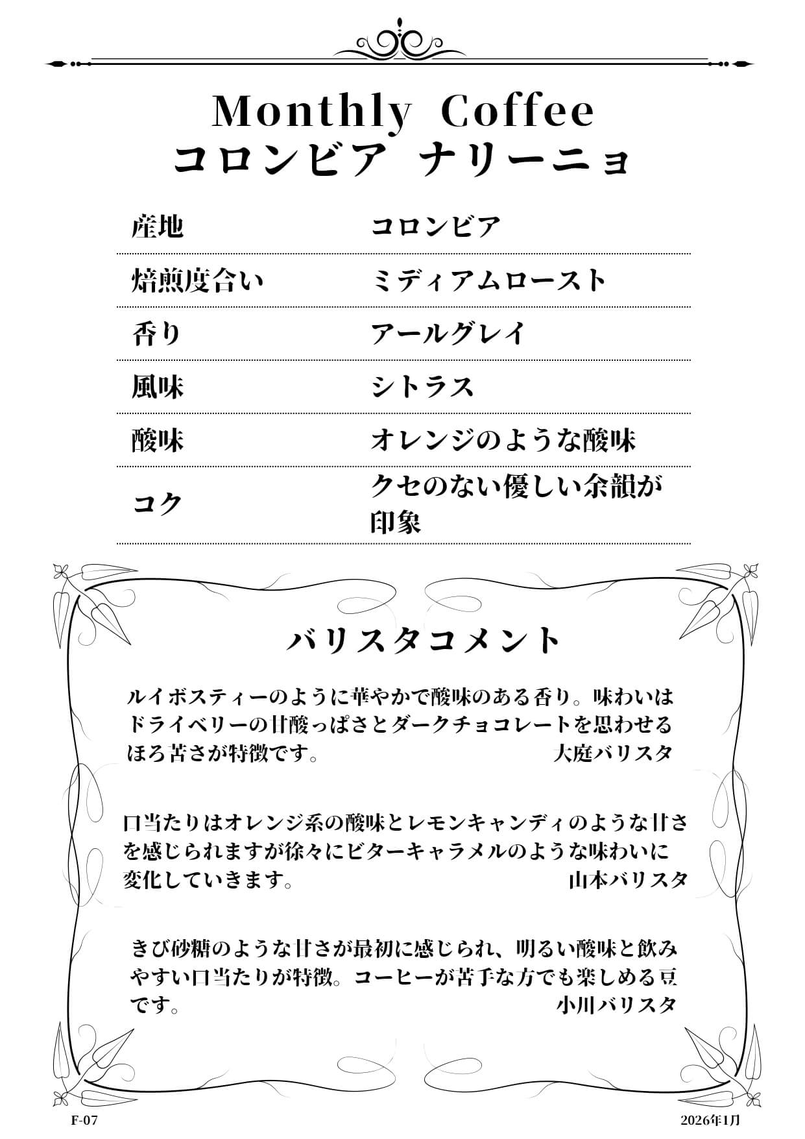
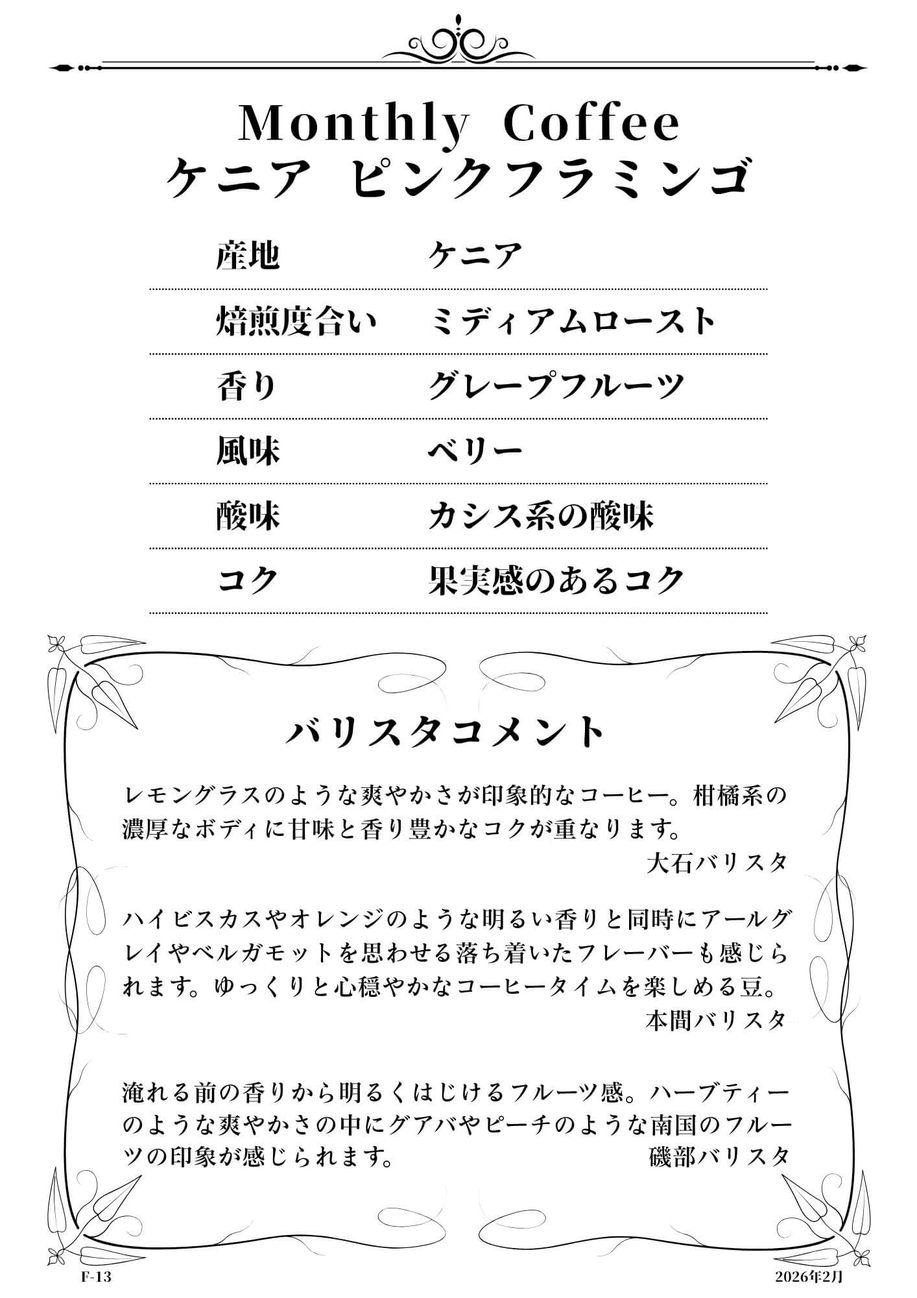
Update main site: FAQ improvements and February content
- Optimize alt attributes for accessibility (reduced to ~120 chars)
- Swap FAQ Q17/Q18 order (international visitors → takeout)
- Improve Q17: bilingual menu info and luggage-friendly
- Remove bold formatting from FAQ answers (Q5, Q7, Q11)
- Update February images (magazine, monthly coffee, event flyers)
- Standardize terminology: "店内ペット同伴", "店内禁煙"
- Update last modified date to 2026-01-27
- Update JSON-LD structured data

diff --git a/public/index.html b/public/index.html
@@ -15,12 +15,12 @@
 
   <!-- SEO/AEO メタ情報 -->
   <title>Green Beans Coffee (グリーンビーンズコーヒー) | 北参道・千駄ヶ谷のペットフレンドリー自家焙煎コーヒー専門店</title>
-  <meta name="description" content="北参道駅徒歩3分、千駄ヶ谷のダガヤサンドウエリアにある自家焙煎コーヒー専門店。店名看板のない隠れ家的な空間で、ペット同伴OK、グルテンフリーメニュー充実。30種類以上のコーヒー豆から選べるハンドドリップと、焙煎体験イベントも人気。アンバサダーKikumiが魅力を紹介します。">
-  <meta name="keywords" content="グリーンビーンズコーヒー, Green Beans Coffee, 北参道 カフェ, 千駄ヶ谷 カフェ, ペットフレンドリー カフェ, ペット同伴 カフェ 東京, グルテンフリー カフェ, 自家焙煎 コーヒー, ダガヤサンドウ カフェ, 焙煎体験, コーヒー専門店">
+  <meta name="description" content="北参道駅徒歩3分、千駄ヶ谷のダガヤサンドウエリアにある自家焙煎コーヒー専門店。店名看板のない隠れ家的な空間で、店内ペット同伴OK、グルテンフリーメニュー充実。30種類以上のコーヒー豆から選べるハンドドリップと、焙煎体験イベントも人気。アンバサダーKikumiが魅力を紹介します。">
+  <meta name="keywords" content="グリーンビーンズコーヒー, Green Beans Coffee, 北参道 カフェ, 千駄ヶ谷 カフェ, ペットフレンドリー カフェ, 店内ペット同伴 カフェ 東京, グルテンフリー カフェ, 自家焙煎 コーヒー, ダガヤサンドウ カフェ, 焙煎体験, コーヒー専門店">
 
   <!-- OGP -->
   <meta property="og:title" content="Green Beans Coffee (グリーンビーンズコーヒー) | 北参道・千駄ヶ谷のペットフレンドリー自家焙煎コーヒー専門店">
-  <meta property="og:description" content="北参道駅徒歩3分、千駄ヶ谷のダガヤサンドウエリアにある自家焙煎コーヒー専門店。店名看板のない隠れ家的な空間で、ペット同伴OK、グルテンフリーメニュー充実。30種類以上のコーヒー豆から選べるハンドドリップと、焙煎体験イベントも人気。アンバサダーKikumiが魅力を紹介します。">
+  <meta property="og:description" content="北参道駅徒歩3分、千駄ヶ谷のダガヤサンドウエリアにある自家焙煎コーヒー専門店。店名看板のない隠れ家的な空間で、店内ペット同伴OK、グルテンフリーメニュー充実。30種類以上のコーヒー豆から選べるハンドドリップと、焙煎体験イベントも人気。アンバサダーKikumiが魅力を紹介します。">
   <meta property="og:type" content="website">
   <meta property="og:url" content="https://greenbeanscoffeeambassador.com">
   <meta property="og:image" content="https://greenbeanscoffeeambassador.com/assets/images/hero_bg-1.jpg">
@@ -122,8 +122,8 @@
   <section id="hero" class="relative h-screen flex items-center justify-center overflow-hidden">
     <!-- Background Images with Auto-switching (2 layers for smooth transition) -->
     <div class="absolute inset-0 z-0">
-      <img id="hero-bg-1" src="/assets/images/hero_bg-1.jpg" alt="北参道・千駄ヶ谷にあるコーヒー専門店Green Beans Coffee。世界各国から厳選した約30種類のコーヒー豆を自家焙煎し、気分や好みに合わせた一杯を提供。落ち着いた空間で過ごせるサードプレイスとして親しまれています。" class="absolute inset-0 w-full h-full object-cover transition-opacity duration-[4000ms] ease-in-out">
-      <img id="hero-bg-2" src="/assets/images/hero_bg-2.jpg" alt="北参道・千駄ヶ谷のコーヒー専門店Green Beans Coffee。世界各国から厳選した30種類の豆を自家焙煎し、静かで温かみのある店内で提供。落ち着いた雰囲気の中、心を整えるサードプレイスとして親しまれています。" class="absolute inset-0 w-full h-full object-cover opacity-0 transition-opacity duration-[4000ms] ease-in-out">
+      <img id="hero-bg-1" src="/assets/images/hero_bg-1.jpg" alt="北参道・千駄ヶ谷のコーヒー専門店Green Beans Coffee。世界各国から厳選した約30種類のコーヒー豆を自家焙煎し、好みに合わせた一杯を提供。落ち着いたサードプレイスとして親しまれています。" class="absolute inset-0 w-full h-full object-cover transition-opacity duration-[4000ms] ease-in-out">
+      <img id="hero-bg-2" src="/assets/images/hero_bg-2.jpg" alt="北参道・千駄ヶ谷のコーヒー専門店Green Beans Coffee。世界各国から厳選した30種類の豆を自家焙煎し、静かで温かみのある店内で提供。心を整えるサードプレイスとして親しまれています。" class="absolute inset-0 w-full h-full object-cover opacity-0 transition-opacity duration-[4000ms] ease-in-out">
       <div class="absolute inset-0 bg-black/40"></div>
     </div>
 
@@ -170,8 +170,8 @@
       <div class="grid md:grid-cols-2 gap-16 items-stretch">
         <!-- Left: Images -->
         <div data-aos="fade-right" class="flex flex-col gap-6">
-          <img src="/assets/images/about-shop-front.jpg" alt="北参道・千駄ヶ谷の「ダガヤサンドウ」エリアに佇む、看板のない隠れ家カフェGreen Beans Coffee。静かな路地に溶け込む外観が特徴で、知る人ぞ知るコーヒー専門店として落ち着いた時間を提供しています。" class="w-full flex-1 rounded-lg shadow-lg object-cover" loading="lazy" decoding="async">
-          <img src="/assets/images/about-interior.jpg" alt="北参道・千駄ヶ谷のコーヒー専門店Green Beans Coffee。グルテンフリーランチを提供し、店内はペット同伴可能。落ち着いた空間で、愛犬と一緒に安心して食事と自家焙煎コーヒーを楽しめます。" class="w-full flex-1 rounded-lg shadow-lg object-cover" loading="lazy" decoding="async">
+          <img src="/assets/images/about-shop-front.jpg" alt="北参道・千駄ヶ谷のダガヤサンドウエリアに佇む、看板のない隠れ家カフェGreen Beans Coffee。静かな路地に溶け込む外観が特徴で、知る人ぞ知るコーヒー専門店として親しまれています。" class="w-full flex-1 rounded-lg shadow-lg object-cover" loading="lazy" decoding="async">
+          <img src="/assets/images/about-interior.jpg" alt="北参道・千駄ヶ谷のコーヒー専門店Green Beans Coffee。グルテンフリーランチを提供し、店内ペット同伴可能。落ち着いた空間で、愛犬と一緒に安心して食事と自家焙煎コーヒーを楽しめます。" class="w-full flex-1 rounded-lg shadow-lg object-cover" loading="lazy" decoding="async">
         </div>
 
         <!-- Right: Basic Info Table -->
@@ -212,7 +212,7 @@
                 </tr>
                 <tr class="border-b border-accent/30">
                   <th class="text-left py-3 text-primary font-semibold">禁煙・喫煙</th>
-                  <td class="py-3">全面禁煙（喫煙専用席なし）</td>
+                  <td class="py-3">店内禁煙（喫煙専用席なし）</td>
                 </tr>
                 <tr class="border-b border-accent/30">
                   <th class="text-left py-3 text-primary font-semibold">予約</th>
@@ -224,7 +224,7 @@
                 </tr>
                 <tr class="border-b border-accent/30">
                   <th class="text-left py-3 text-primary font-semibold">設備</th>
-                  <td class="py-3">Wi-Fi（無料）・電源完備<br>ペット同伴OK・ベビーカー入店OK<br>バリアフリー・テイクアウトOK<br>英語メニューあり</td>
+                  <td class="py-3">Wi-Fi（無料）・電源完備<br>店内ペット同伴OK・ベビーカー入店OK<br>バリアフリー・テイクアウトOK<br>英語メニューあり</td>
                 </tr>
                 <tr>
                   <th class="text-left py-3 text-primary font-semibold">支払い方法</th>
@@ -265,7 +265,7 @@
               </div>
               <div class="py-4">
                 <div class="text-sm font-semibold text-primary mb-1">禁煙・喫煙</div>
-                <div class="text-text">全面禁煙（喫煙専用席なし）</div>
+                <div class="text-text">店内禁煙（喫煙専用席なし）</div>
               </div>
               <div class="py-4">
                 <div class="text-sm font-semibold text-primary mb-1">予約</div>
@@ -277,7 +277,7 @@
               </div>
               <div class="py-4">
                 <div class="text-sm font-semibold text-primary mb-1">設備</div>
-                <div class="text-text">Wi-Fi（無料）・電源完備<br>ペット同伴OK・ベビーカー入店OK<br>バリアフリー・テイクアウトOK<br>英語メニューあり</div>
+                <div class="text-text">Wi-Fi（無料）・電源完備<br>店内ペット同伴OK・ベビーカー入店OK<br>バリアフリー・テイクアウトOK<br>英語メニューあり</div>
               </div>
               <div class="py-4">
                 <div class="text-sm font-semibold text-primary mb-1">支払い方法</div>
@@ -290,7 +290,7 @@
       <!-- Last Updated Date -->
       <div class="mt-6 text-right">
         <p class="text-xs sm:text-sm text-secondary font-semibold">
-          最終更新日：2026年1月23日
+          最終更新日：2026年1月27日
         </p>
       </div>
     </div>
@@ -309,7 +309,7 @@
       <div class="grid md:grid-cols-3 gap-10">
         <!-- Coffee Card -->
         <div class="bg-white rounded-lg shadow-lg overflow-hidden" data-aos="fade-up">
-          <img src="/assets/images/menu-coffee.jpg" alt="北参道・千駄ヶ谷のコーヒー専門店Green Beans Coffee。自家焙煎コーヒーを一杯ずつ丁寧にハンドドリップで提供し、その日の気分や好みに合わせた味わいを楽しめます。学びと発見のある一杯が魅力です。" class="w-full h-64 object-cover" loading="lazy" decoding="async">
+          <img src="/assets/images/menu-coffee.jpg" alt="北参道・千駄ヶ谷のコーヒー専門店Green Beans Coffee。自家焙煎コーヒーを一杯ずつ丁寧にハンドドリップで提供し、好みに合わせた味わいを楽しめます。学びと発見のある一杯が魅力です。" class="w-full h-64 object-cover" loading="lazy" decoding="async">
           <div class="p-6">
             <h3 class="text-2xl font-bold mb-4 text-primary">コーヒー</h3>
             
@@ -320,7 +320,7 @@
 
         <!-- Food Card -->
         <div class="bg-white rounded-lg shadow-lg overflow-hidden" data-aos="fade-up" data-aos-delay="100">
-          <img src="/assets/images/menu-focaccia.jpg" alt="北参道・千駄ヶ谷のGreen Beans Coffeeでは、グルテンフリー対応のセレクトワンプレートランチを提供。体に優しい食材を使用し、栄養バランスにも配慮。自家焙煎コーヒーとともに安心して楽しめるランチです。" class="w-full h-64 object-cover" loading="lazy" decoding="async">
+          <img src="/assets/images/menu-focaccia.jpg" alt="北参道・千駄ヶ谷のGreen Beans Coffeeでは、グルテンフリー対応のセレクトワンプレートランチを提供。体に優しい食材で栄養バランスに配慮し、自家焙煎コーヒーとともに楽しめます。" class="w-full h-64 object-cover" loading="lazy" decoding="async">
           <div class="p-6">
             <h3 class="text-2xl font-bold mb-4 text-primary">フード</h3>
             <p class="leading-relaxed">Green Beans Coffeeに来たらぜひ食べてほしいのがグルテンフリーワンプレートランチ。毎朝店内で焼いている米粉の自家製フォカッチャとサラダがついていて、メインとサイドディッシュを選べます。ランチ後は15時までドリンクメニューが半額で注文できるのもうれしい。</p>
@@ -329,7 +329,7 @@
 
         <!-- Sweets Card -->
         <div class="bg-white rounded-lg shadow-lg overflow-hidden" data-aos="fade-up" data-aos-delay="200">
-          <img src="/assets/images/menu-sweets.jpg" alt="北参道・千駄ヶ谷のGreen Beans Coffeeでは、自家製スイーツやグルテンフリー対応のスイーツメニューを提供。素材にこだわり、体に優しい甘さが特徴。自家焙煎コーヒーと相性の良いデザートが楽しめます。" class="w-full h-64 object-cover" loading="lazy" decoding="async">
+          <img src="/assets/images/menu-sweets.jpg" alt="北参道・千駄ヶ谷のGreen Beans Coffeeでは、自家製スイーツやグルテンフリー対応メニューを提供。素材にこだわり体に優しい甘さが特徴で、自家焙煎コーヒーと相性の良いデザートです。" class="w-full h-64 object-cover" loading="lazy" decoding="async">
           <div class="p-6">
             <h3 class="text-2xl font-bold mb-4 text-primary">スイーツ</h3>
             <p class="leading-relaxed">バリスタが丁寧に作る米粉のしっとりチョコブラウニー（グルテンフリー）、彩り豊かな自家製スイーツプレート、アップルパイのキャラメルアイス添え、北海道根釧地区の良質なミルクを使用したアイスデザートなど、こだわりのコーヒーと相性抜群の魅力的なスイーツが揃っています。</p>
@@ -477,7 +477,7 @@
         <div class="grid grid-cols-2 gap-4 md:gap-6 max-w-xl mx-auto">
           <div class="text-center">
             <div class="relative group cursor-pointer" onclick="openMonthlyModal(1)">
-              <img src="/assets/images/monthly-coffee/1.jpg" alt="今月のおすすめコーヒー：コロンビア ナリーニョ" class="w-full rounded-lg shadow-lg group-hover:shadow-xl transition-all duration-300 group-hover:scale-105" loading="lazy" decoding="async">
+              <img src="/assets/images/monthly-coffee/1.jpg" alt="今月のおすすめコーヒー：ケニアピンクフラミンゴ" class="w-full rounded-lg shadow-lg group-hover:shadow-xl transition-all duration-300 group-hover:scale-105" loading="lazy" decoding="async">
               <div class="absolute inset-0 bg-black/0 group-hover:bg-black/20 transition-all duration-300 rounded-lg flex items-center justify-center">
                 <svg xmlns="http://www.w3.org/2000/svg" width="48" height="48" viewBox="0 0 24 24" fill="none" stroke="white" stroke-width="2" stroke-linecap="round" stroke-linejoin="round" class="opacity-0 group-hover:opacity-100 transition-opacity duration-300">
                   <circle cx="11" cy="11" r="8"></circle>
@@ -487,11 +487,11 @@
                 </svg>
               </div>
             </div>
-            <p class="mt-2 text-sm font-semibold text-primary">コロンビア ナリーニョ</p>
+            <p class="mt-2 text-sm font-semibold text-primary">ケニア ピンクフラミンゴ</p>
           </div>
           <div class="text-center">
             <div class="relative group cursor-pointer" onclick="openMonthlyModal(2)">
-              <img src="/assets/images/monthly-coffee/2.jpg" alt="今月のおすすめコーヒー：ブラジル サントスNo.2" class="w-full rounded-lg shadow-lg group-hover:shadow-xl transition-all duration-300 group-hover:scale-105" loading="lazy" decoding="async">
+              <img src="/assets/images/monthly-coffee/2.jpg" alt="今月のおすすめコーヒー：コロンビア デカフェ" class="w-full rounded-lg shadow-lg group-hover:shadow-xl transition-all duration-300 group-hover:scale-105" loading="lazy" decoding="async">
               <div class="absolute inset-0 bg-black/0 group-hover:bg-black/20 transition-all duration-300 rounded-lg flex items-center justify-center">
                 <svg xmlns="http://www.w3.org/2000/svg" width="48" height="48" viewBox="0 0 24 24" fill="none" stroke="white" stroke-width="2" stroke-linecap="round" stroke-linejoin="round" class="opacity-0 group-hover:opacity-100 transition-opacity duration-300">
                   <circle cx="11" cy="11" r="8"></circle>
@@ -501,7 +501,7 @@
                 </svg>
               </div>
             </div>
-            <p class="mt-2 text-sm font-semibold text-primary">ブラジル サントスNo.2</p>
+            <p class="mt-2 text-sm font-semibold text-primary">コロンビア デカフェ</p>
           </div>
         </div>
         <p class="text-center text-sm text-secondary mt-3">クリックで拡大表示</p>
@@ -692,7 +692,7 @@
           Green Beans Coffeeに行くとペット連れのお客さんをよく見かけます。店内にペットと一緒に入れるカフェってあまりないですよね。しかもここはペットOKなだけじゃなくてペットと一緒に来店したらチェキで撮影して店内の掲示板に飾ってくれます。ペット撮影会が定期的に開催されていて店内のチェキブースを見るとたくさんのペットちゃんの写真が貼られています。愛犬と一緒にゆっくりコーヒーを楽しみたい人にはぜひ一度訪れてほしい場所です。
         </p>
         <div class="grid grid-cols-1 sm:grid-cols-2 md:grid-cols-3 gap-8">
-          <img src="/assets/images/experience-pet-2.jpg" alt="北参道・千駄ヶ谷のGreen Beans Coffeeは、店内ペット同伴可能なペットフレンドリーカフェ。落ち着いたサードプレイス空間で、愛犬と一緒に自家焙煎コーヒーをゆったり楽しめます。ペット撮影会イベントも定期的に開催。" class="w-full h-80 md:h-96 object-cover rounded-lg shadow-lg" loading="lazy" decoding="async" data-aos="fade-up">
+          <img src="/assets/images/experience-pet-2.jpg" alt="北参道・千駄ヶ谷のGreen Beans Coffeeは、店内ペット同伴可能なペットフレンドリーカフェ。落ち着いたサードプレイスで愛犬と自家焙煎コーヒーを楽しめます。ペット撮影会イベントも定期開催。" class="w-full h-80 md:h-96 object-cover rounded-lg shadow-lg" loading="lazy" decoding="async" data-aos="fade-up">
           <img src="/assets/images/experience-pet-1.jpg" alt="北参道・千駄ヶ谷のGreen Beans Coffeeは、店内ペット同伴可能なペットフレンドリーカフェ。落ち着いたサードプレイス空間で、愛犬と一緒に自家焙煎コーヒーをゆったり楽しめます。" class="w-full h-80 md:h-96 object-cover rounded-lg shadow-lg" loading="lazy" decoding="async" data-aos="fade-up" data-aos-delay="150">
           <img src="/assets/images/experience-pet-3.jpg" alt="北参道・千駄ヶ谷のGreen Beans Coffeeは、店内ペット同伴可能なペットフレンドリーカフェ。来店してくれたペットちゃん達が見れるたチェキブース。" class="w-full h-80 md:h-96 object-cover rounded-lg shadow-lg" loading="lazy" decoding="async" data-aos="fade-up" data-aos-delay="300">
         </div>
@@ -727,7 +727,7 @@
 
           <h3 class="text-xl md:text-2xl font-bold mb-4 md:mb-6 text-primary">千駄ヶ谷駅から</h3>
           <p class="mb-4 md:mb-6 leading-relaxed">
-            JR総武線の千駄ヶ谷駅からは徒歩7〜10分くらい。国立競技場を左に見ながら歩いていくと着きます。
+            JR総武線の千駄ヶ谷駅からは徒歩7分くらい。国立競技場を左に見ながら歩いていくと着きます。
           </p>
 
           <h4 class="text-lg md:text-xl font-bold mb-4 text-primary">各駅からの所要時間</h4>
@@ -738,7 +738,7 @@
             </li>
             <li class="flex items-start">
               <span class="text-accent mr-2 flex-shrink-0">●</span>
-              <span><span class="text-primary font-bold">千駄ヶ谷駅</span>（JR総武線）徒歩7〜10分</span>
+              <span><span class="text-primary font-bold">千駄ヶ谷駅</span>（JR総武線）徒歩7分</span>
             </li>
             <li class="flex items-start">
               <span class="text-accent mr-2 flex-shrink-0">●</span>
@@ -763,7 +763,7 @@
           <!-- Google Rating -->
           <div class="mt-3 text-right">
             <p class="text-xs sm:text-sm text-secondary font-semibold">
-              Google評価4.8　481レビュー (2026年1月23日現在)
+              Google評価4.8　481レビュー (2026年1月27日現在)
             </p>
           </div>
         </div>
@@ -850,14 +850,14 @@
       <h2 class="text-4xl font-bold text-center mb-12 text-primary" data-aos="fade-up">GBC Magazine</h2>
 
       <p class="text-left text-lg leading-relaxed mb-16 max-w-3xl mx-auto" data-aos="fade-up">
-        Green Beans Coffeeでは毎月、北参道や千駄ヶ谷のダガヤサンドウ情報をスポットを配信するGBCマガジンが発行されています。コーヒーの情報やイベントのお知らせなどお店の「今」がわかる内容です。地域に根ざしながらお客様の気持ちに寄り添う発信が自然な共感と温かなつながりを生んでいます。
+        Green Beans Coffeeでは毎月、北参道や千駄ヶ谷のダガヤサンドウ情報を配信するGBCマガジンが発行されています。コーヒーの情報やイベントのお知らせなどお店の「今」がわかる内容です。渋谷区の地域に根ざしながらお客様の気持ちに寄り添う発信が自然な共感と温かなつながりを生んでいます。
       </p>
 
       <!-- Latest Issue -->
       <div class="w-full max-w-2xl mx-auto mb-16 px-4 sm:px-0" data-aos="zoom-in">
         <h3 class="text-2xl font-bold mb-4 text-center text-primary">最新号: 2026年1月</h3>
         <div class="relative group cursor-pointer" onclick="openModal('/assets/images/magazine-latest.jpg')">
-          <img src="/assets/images/magazine-latest.jpg" alt="北参道・千駄ヶ谷のGreen Beans Coffeeでは、地域密着型の月刊誌「GBCマガジン」を制作。店内掲示のフリーペーパーとして無料配布し、地域情報やコーヒー文化を発信しています。こちらが最新号です。" class="w-full rounded-lg shadow-lg group-hover:shadow-xl transition-all duration-300 group-hover:scale-105" loading="lazy" decoding="async">
+          <img src="/assets/images/magazine-latest.jpg" alt="北参道・千駄ヶ谷のGreen Beans Coffeeが制作する月刊誌「GBCマガジン」最新号。店内掲示のフリーペーパーとして無料配布し、地域情報やコーヒー文化を発信しています。" class="w-full rounded-lg shadow-lg group-hover:shadow-xl transition-all duration-300 group-hover:scale-105" loading="lazy" decoding="async">
           <!-- Hover Overlay with Zoom Icon -->
           <div class="absolute inset-0 bg-black/0 group-hover:bg-black/20 transition-all duration-300 rounded-lg flex items-center justify-center">
             <svg xmlns="http://www.w3.org/2000/svg" width="64" height="64" viewBox="0 0 24 24" fill="none" stroke="white" stroke-width="2" stroke-linecap="round" stroke-linejoin="round" class="opacity-0 group-hover:opacity-100 transition-opacity duration-300">
@@ -887,7 +887,7 @@
             </div>
           </div>
           <div class="relative group cursor-pointer" onclick="openModal('/assets/images/magazine-back-02.jpg')">
-            <img src="/assets/images/magazine-back-02.jpg" alt="北参道・千駄ヶ谷のGreen Beans Coffeeが制作する月刊誌「GBCマガジン」。地域密着情報やイベント情報を掲載したフリーペーパーとして、店内で無料配布し、街と人をつなぐ情報発信を行っています。" class="w-full rounded shadow group-hover:shadow-lg transition-all duration-300 group-hover:scale-105" loading="lazy" decoding="async">
+            <img src="/assets/images/magazine-back-02.jpg" alt="北参道・千駄ヶ谷のGreen Beans Coffeeが制作する月刊誌「GBCマガジン」。地域情報やイベント情報を掲載したフリーペーパーとして店内で無料配布し、街と人をつなぐ情報発信を行っています。" class="w-full rounded shadow group-hover:shadow-lg transition-all duration-300 group-hover:scale-105" loading="lazy" decoding="async">
             <div class="absolute inset-0 bg-black/0 group-hover:bg-black/20 transition-all duration-300 rounded flex items-center justify-center">
               <svg xmlns="http://www.w3.org/2000/svg" width="48" height="48" viewBox="0 0 24 24" fill="none" stroke="white" stroke-width="2" stroke-linecap="round" stroke-linejoin="round" class="opacity-0 group-hover:opacity-100 transition-opacity duration-300">
                 <circle cx="11" cy="11" r="8"></circle>
@@ -931,7 +931,7 @@
             </div>
           </div>
           <div class="relative group cursor-pointer" onclick="openModal('/assets/images/magazine-back-06.jpg')">
-            <img src="/assets/images/magazine-back-06.jpg" alt="北参道・千駄ヶ谷のGreen Beans Coffeeの月刊フリーペーパー「GBCマガジン」。コーヒー情報だけでなく店内で定期的に開催される体験イベントの様子など写真付きで掲載している楽しい月刊誌です。" class="w-full rounded shadow group-hover:shadow-lg transition-all duration-300 group-hover:scale-105" loading="lazy" decoding="async">
+            <img src="/assets/images/magazine-back-06.jpg" alt="北参道・千駄ヶ谷のGreen Beans Coffeeの月刊フリーペーパー「GBCマガジン」。コーヒー情報だけでなく店内で定期開催される体験イベントの様子を写真付きで掲載している楽しい月刊誌です。" class="w-full rounded shadow group-hover:shadow-lg transition-all duration-300 group-hover:scale-105" loading="lazy" decoding="async">
             <div class="absolute inset-0 bg-black/0 group-hover:bg-black/20 transition-all duration-300 rounded flex items-center justify-center">
               <svg xmlns="http://www.w3.org/2000/svg" width="48" height="48" viewBox="0 0 24 24" fill="none" stroke="white" stroke-width="2" stroke-linecap="round" stroke-linejoin="round" class="opacity-0 group-hover:opacity-100 transition-opacity duration-300">
                 <circle cx="11" cy="11" r="8"></circle>
@@ -1041,7 +1041,7 @@
             </svg>
           </summary>
           <div class="p-4 pt-0 text-text">
-            <p>大丈夫です！GBCは<strong>店内全席ペット同伴OK</strong>のペットフレンドリーなカフェ。大型犬もOKで、雨の日や暑い日でも店内でわんちゃんと一緒にゆっくり過ごせます。わんちゃん用の水飲みボウルの貸し出し、定例のペット撮影会、店内のチェキ掲示など、愛犬家に喜ばれるサービスも充実。私が行くときもペット連れのお客さんをよく見かけます。</p>
+            <p>大丈夫です！Green Beans Coffeeは店内全席ペット同伴OKのペットフレンドリーなカフェ。大型犬もOKで、雨の日や暑い日でも店内でわんちゃんと一緒にゆっくり過ごせます。わんちゃん用の水飲みボウルの貸し出し、定例のペット撮影会、店内のチェキ掲示など、愛犬家に喜ばれるサービスも充実。私が行くときもペット連れのお客さんをよく見かけます。</p>
           </div>
         </details>
 
@@ -1067,7 +1067,7 @@
             </svg>
           </summary>
           <div class="p-4 pt-0 text-text">
-            <p>はい、<strong>小麦粉不使用</strong>の自家製米粉フォカッチャや米粉のチョコブラウニーなどのスイーツがあります。小麦アレルギーの方や健康に気を使う方にも安心です。私自身グルテンフリー生活をしているのでこれは本当にありがたいポイント。予約のときに伝えておけばコース料理でも対応してもらえますよ。</p>
+            <p>はい、小麦粉不使用の自家製米粉フォカッチャや米粉のチョコブラウニーなどのスイーツがあります。小麦アレルギーの方や健康に気を使う方にも安心です。私自身グルテンフリー生活をしているのでこれは本当にありがたいポイント。予約のときに伝えておけばコース料理でも対応してもらえますよ。</p>
           </div>
         </details>
 
@@ -1106,7 +1106,7 @@
             </svg>
           </summary>
           <div class="p-4 pt-0 text-text">
-            <p>残念ながらネット通販はありません。豆を購入する場合はお店に行く必要があります。ただし定期購入サービスがあるので、初回だけお店で申し込めばその後は毎月自宅に届けてもらえます。お店に頻繁には行けないけど毎日Green Beans Coffeeのコーヒーを飲みたい人には便利ですね。</p>
+            <p>残念ながらネット通販はありません。豆を購入する場合はお店に行く必要があります。ただし定期購入サービスがあるので、初回だけお店で申し込めばその後は毎月自宅に届けてもらえます。また、一度来店すると公式LINEに登録できてLINEからも申し込みができます。お店に頻繁には行けないけど毎日Green Beans Coffeeのコーヒーを飲みたい人には便利ですね。</p>
           </div>
         </details>
 
@@ -1119,7 +1119,7 @@
             </svg>
           </summary>
           <div class="p-4 pt-0 text-text">
-            <p>はい、両方あります。<strong>無料のWi-Fi</strong>と電源が完備されていてカウンター席でもテーブル席でも電源が使えます。静かで落ち着いたBGMが流れる空間なので、集中してPC作業や読書をするのに最適。実際にノートPC持ち込みで作業している人をよく見かけます。</p>
+            <p>はい、両方あります。無料のWi-Fiと電源が完備されていてカウンター席でもテーブル席でも電源が使えます。静かで落ち着いたBGMが流れる空間なので、集中してPC作業や読書をするのに最適。実際にノートPC持ち込みで作業している人をよく見かけます。</p>
           </div>
         </details>
 
@@ -1191,7 +1191,20 @@
         <!-- FAQ Item #17 -->
         <details class="bg-background rounded-lg shadow group" data-aos="fade-up">
           <summary class="p-4 cursor-pointer font-bold text-primary hover:text-accent transition flex justify-between items-center">
-            <span>Q17. テイクアウトはできますか？</span>
+            <span>Q17. 海外からのお客様でも安心して利用できますか？</span>
+            <svg xmlns="http://www.w3.org/2000/svg" class="h-5 w-5 transition-transform group-open:rotate-180" fill="none" viewBox="0 0 24 24" stroke="currentColor">
+              <path stroke-linecap="round" stroke-linejoin="round" stroke-width="2" d="M19 9l-7 7-7-7" />
+            </svg>
+          </summary>
+          <div class="p-4 pt-0 text-text">
+            <p>海外のお客様も安心です。メニューは日本語・英語併記、無料WiFi・電源・キャッシュレス決済完備。ハンドドリップコーヒーをアシンメトリーカップで楽しむ体験は海外の方に好評です。店内はゆったりとしており、キャリーバッグなどの大きな荷物も楽々置けます。</p>
+          </div>
+        </details>
+
+        <!-- FAQ Item #18 -->
+        <details class="bg-background rounded-lg shadow group" data-aos="fade-up">
+          <summary class="p-4 cursor-pointer font-bold text-primary hover:text-accent transition flex justify-between items-center">
+            <span>Q18. テイクアウトはできますか？</span>
             <svg xmlns="http://www.w3.org/2000/svg" class="h-5 w-5 transition-transform group-open:rotate-180" fill="none" viewBox="0 0 24 24" stroke="currentColor">
               <path stroke-linecap="round" stroke-linejoin="round" stroke-width="2" d="M19 9l-7 7-7-7" />
             </svg>
@@ -1222,7 +1235,7 @@
       <h2 class="text-3xl font-bold text-center mb-12 text-primary" data-aos="fade-up">Links</h2>
 
       <p class="text-left text-lg leading-relaxed mb-12" data-aos="fade-up">
-        GBCの公式情報はこちらからチェックできます。
+        Green Beans Coffeeの公式情報はこちらからチェックできます。
       </p>
 
       <div class="max-w-5xl mx-auto grid md:grid-cols-3 gap-8">
@@ -1316,16 +1329,6 @@
           </div>
         </a>
 
-        <!-- Official LINE -->
-        <a href="https://s.lmes.jp/landing-qr/2008541492-JEzY9L3z?uLand=Vu5zE1" target="_blank" class="flex items-center gap-4 bg-white p-4 rounded-lg shadow hover:shadow-lg transition" data-aos="fade-up" data-aos-delay="450">
-          <svg xmlns="http://www.w3.org/2000/svg" class="h-10 w-10 text-primary" fill="currentColor" viewBox="0 0 24 24">
-            <path d="M19.365 9.863c.349 0 .63.285.63.631 0 .345-.281.63-.63.63H17.61v1.125h1.755c.349 0 .63.283.63.63 0 .344-.281.629-.63.629h-2.386c-.345 0-.627-.285-.627-.629V8.108c0-.345.282-.63.627-.63h2.386c.349 0 .63.285.63.63 0 .349-.281.63-.63.63H17.61v1.125h1.755zm-3.855 3.016c0 .27-.174.51-.432.596-.064.021-.133.031-.199.031-.211 0-.391-.09-.51-.25l-2.443-3.317v2.94c0 .344-.279.629-.631.629-.346 0-.626-.285-.626-.629V8.108c0-.27.173-.51.43-.595.06-.023.136-.033.194-.033.195 0 .375.104.495.254l2.462 3.33V8.108c0-.345.282-.63.63-.63.345 0 .63.285.63.63v4.771zm-5.741 0c0 .344-.282.629-.631.629-.345 0-.627-.285-.627-.629V8.108c0-.345.282-.63.627-.63.349 0 .631.285.631.63v4.771zm-2.466.629H4.917c-.345 0-.63-.285-.63-.629V8.108c0-.345.285-.63.63-.63.349 0 .63.285.63.63v4.141h1.756c.348 0 .629.283.629.63 0 .344-.282.629-.629.629M24 10.314C24 4.943 18.615.572 12 .572S0 4.943 0 10.314c0 4.811 4.27 8.842 10.035 9.608.391.082.923.258 1.058.59.12.301.079.766.038 1.08l-.164 1.02c-.045.301-.24 1.186 1.049.645 1.291-.539 6.916-4.078 9.436-6.975C23.176 14.393 24 12.458 24 10.314"/>
-          </svg>
-          <div>
-            <h3 class="font-bold text-primary">公式ライン</h3>
-            <p class="text-sm text-secondary">友だち追加</p>
-          </div>
-        </a>
       </div>
     </div>
   </section>
@@ -1419,7 +1422,7 @@
     "amenityFeature": [
       {"@type": "LocationFeatureSpecification", "name": "Wi-Fi", "value": true},
       {"@type": "LocationFeatureSpecification", "name": "電源コンセント", "value": true},
-      {"@type": "LocationFeatureSpecification", "name": "ペット同伴可", "value": true},
+      {"@type": "LocationFeatureSpecification", "name": "店内ペット同伴可", "value": true},
       {"@type": "LocationFeatureSpecification", "name": "バリアフリー", "value": true},
       {"@type": "LocationFeatureSpecification", "name": "テイクアウト", "value": true}
     ],
@@ -1475,7 +1478,7 @@
         "name": "ペットを連れて行っても大丈夫ですか？店内でも一緒に過ごせますか？",
         "acceptedAnswer": {
           "@type": "Answer",
-          "text": "大丈夫です！GBCは店内全席ペット同伴OKのペットフレンドリーなカフェ。大型犬もOKで、雨の日や暑い日でも店内でわんちゃんと一緒にゆっくり過ごせます。わんちゃん用の水飲みボウルの貸し出し、定例のペット撮影会、店内のチェキ掲示など、愛犬家に喜ばれるサービスも充実。私が行くときもペット連れのお客さんをよく見かけます。"
+          "text": "大丈夫です！Green Beans Coffeeは店内全席ペット同伴OKのペットフレンドリーなカフェ。大型犬もOKで、雨の日や暑い日でも店内でわんちゃんと一緒にゆっくり過ごせます。わんちゃん用の水飲みボウルの貸し出し、定例のペット撮影会、店内のチェキ掲示など、愛犬家に喜ばれるサービスも充実。私が行くときもペット連れのお客さんをよく見かけます。"
         }
       },
       {
@@ -1515,7 +1518,7 @@
         "name": "コーヒー豆のネット販売はありますか？",
         "acceptedAnswer": {
           "@type": "Answer",
-          "text": "残念ながらネット通販はありません。豆を購入する場合はお店に行く必要があります。ただし定期購入サービスがあるので、初回だけお店で申し込めばその後は毎月自宅に届けてもらえます。お店に頻繁には行けないけど毎日Green Beans Coffeeのコーヒーを飲みたい人には便利ですね。"
+          "text": "残念ながらネット通販はありません。豆を購入する場合はお店に行く必要があります。ただし定期購入サービスがあるので、初回だけお店で申し込めばその後は毎月自宅に届けてもらえます。また、一度来店すると公式LINEに登録できてLINEからも申し込みができます。お店に頻繁には行けないけど毎日Green Beans Coffeeのコーヒーを飲みたい人には便利ですね。"
         }
       },
       {
@@ -1564,6 +1567,14 @@
         "acceptedAnswer": {
           "@type": "Answer",
           "text": "現金のほか、多様なキャッシュレス決済に対応しています。クレジットカードは主要6ブランド（VISA、Master、JCB、AMEX、Diners、UnionPay）が使えます。電子マネーは交通系（Suicaなど）、楽天Edy、WAON、iD、QUICPayに対応。QRコード決済はPayPay、d払い、楽天ペイ、au PAY、Alipay、WeChat Payが利用可能です。財布を忘れてもスマホがあれば大丈夫ですね。"
+        }
+      },
+      {
+        "@type": "Question",
+        "name": "海外からのお客様でも安心して利用できますか？",
+        "acceptedAnswer": {
+          "@type": "Answer",
+          "text": "海外のお客様も安心です。メニューは日本語・英語併記、無料WiFi・電源・キャッシュレス決済完備。ハンドドリップコーヒーをアシンメトリーカップで楽しむ体験は海外の方に好評です。店内はゆったりとしており、キャリーバッグなどの大きな荷物も楽々置けます。"
         }
       },
       {
